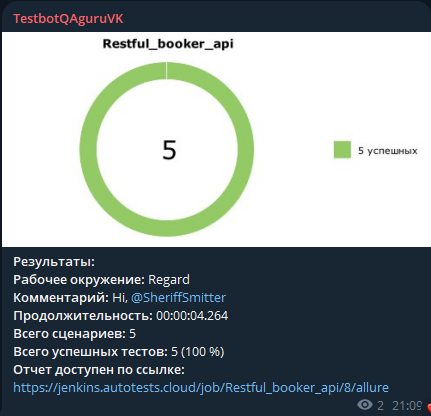
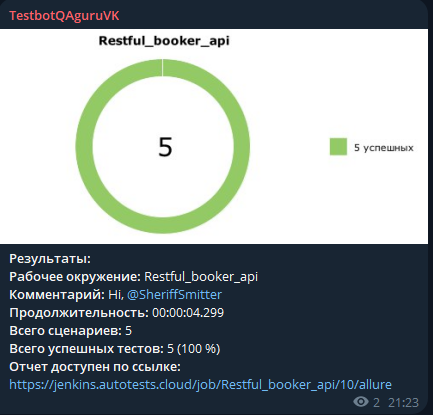
update

Changed region(s): [[0.0, 0.0289, 1.0, 1.0], [0.3619, 0.3181, 0.4223, 0.4048], [0.4826, 0.1735, 0.5128, 0.2024]]

diff --git a/README.md b/README.md
@@ -2,7 +2,7 @@
 
 ><a target="_blank" href="https://restful-booker.herokuapp.com/apidoc/index.html#api-Auth">Restful-booker</a>
 > 
-![main page screenshot](pictures/Petstore_API_main_page.png)
+![main page screenshot](pictures/restful_booker_main_page.png)
 
 ---
 ### Список проверок, реализованных в автотестах
@@ -15,15 +15,15 @@
 ---
 
 ### Используемые инструменты
-<img title="Python" src="pictures/icons/python.svg" height="40" width="40"/> <img title="Pytest" src="pictures/icons/pytest.svg" height="40" width="40"/> <img title="Allure Report" src="pictures/icons/allure_report.png" height="40" width="40"/> <img title="GitHub" src="pictures/icons/github.svg" height="40" width="40"/> <img title="Pycharm" src="pictures/icons/pycharm-original.svg" height="40" width="40"/> <img title="Telegram" src="pictures/icons/telegram.png" height="40" width="40"/> <img title="Jenkins" src="pictures/icons/jenkins-original.svg" height="40" width="40"/> <img title="Requests" src="pictures/icons/requests.png" height="40" width="40"/>  <img title="Jira" src="pictures/icons/jira.svg" height="40" width="40"/>
+<img title="Python" src="pictures/icons/python.svg" height="40" width="40"/> <img title="Pytest" src="pictures/icons/pytest.svg" height="40" width="40"/> <img title="Allure Report" src="pictures/icons/allure_report.png" height="40" width="40"/> <img title="GitHub" src="pictures/icons/github.svg" height="40" width="40"/> <img title="Pycharm" src="pictures/icons/pycharm-original.svg" height="40" width="40"/> <img title="Telegram" src="pictures/icons/telegram.png" height="40" width="40"/> <img title="Jenkins" src="pictures/icons/jenkins-original.svg" height="40" width="40"/>  <img title="Jira" src="pictures/icons/jira.svg" height="40" width="40"/>
 
 ---
 
 ### Запуск автотестов осуществляется с использованием Jenkins
-> [Ссылка на сборку в Jenkins](https://jenkins.autotests.cloud/job/Vadim_Korolev_Petstore_api/)
+> [Ссылка на сборку в Jenkins](https://jenkins.autotests.cloud/job/Restful_booker_api/)
 
 #### Для запуска автотестов в Jenkins
-1. Открыть [задачу в Jenkins](https://jenkins.autotests.cloud/job/Vadim_Korolev_Petstore_api/)
+1. Открыть [задачу в Jenkins](https://jenkins.autotests.cloud/job/Restful_booker_api/)
 
 ![jenkins job main page](pictures/Jenkins_job_main_page.png)
 
@@ -33,16 +33,17 @@
 
 ### Allure отчет
 
-![allure_report page](pictures/allure_report_page.png)
+![allure_report page](pictures/allure_report_main_page.png)
 
 ---
 
 ### Интеграция с Allure TestOps
 
-> [Job #4397 Vadim Korolev Petstore api](https://allure.autotests.cloud/project/4397)
+> [Job #4397 Vadim Korolev Petstore api](https://allure.autotests.cloud/project/4462)
 
-![allure_testops job](pictures/allure_testops_job.png)
-
+![allure_testops job](pictures/allure_testops_dashboard.png)
+![allure_testops job](pictures/allure_report_graph_1.png)
+![allure_testops job](pictures/allure_report_graph_2.png)
 ---
 
 ### Интеграция с Jira
